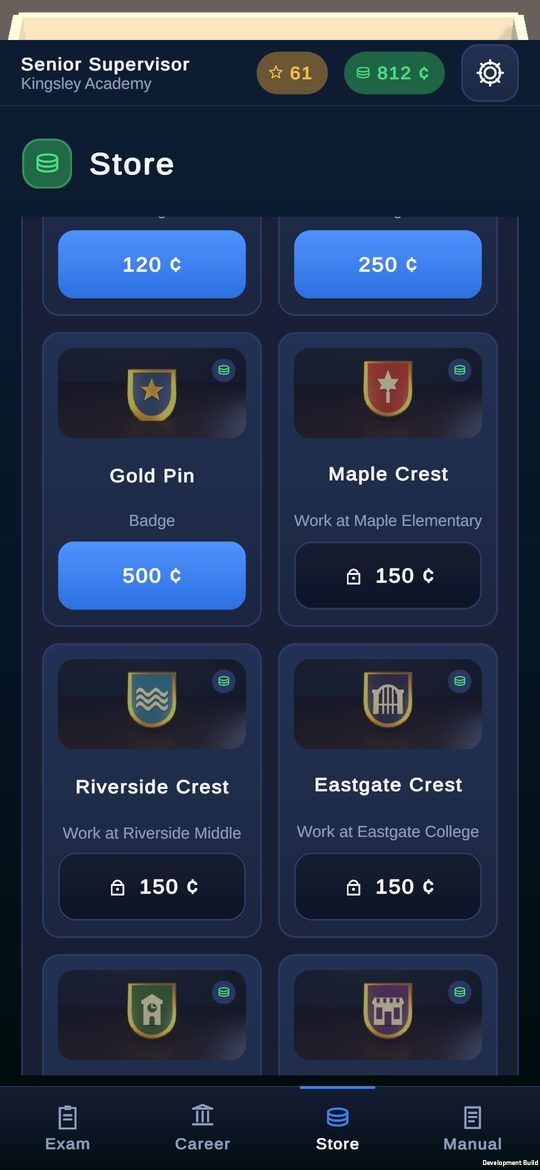
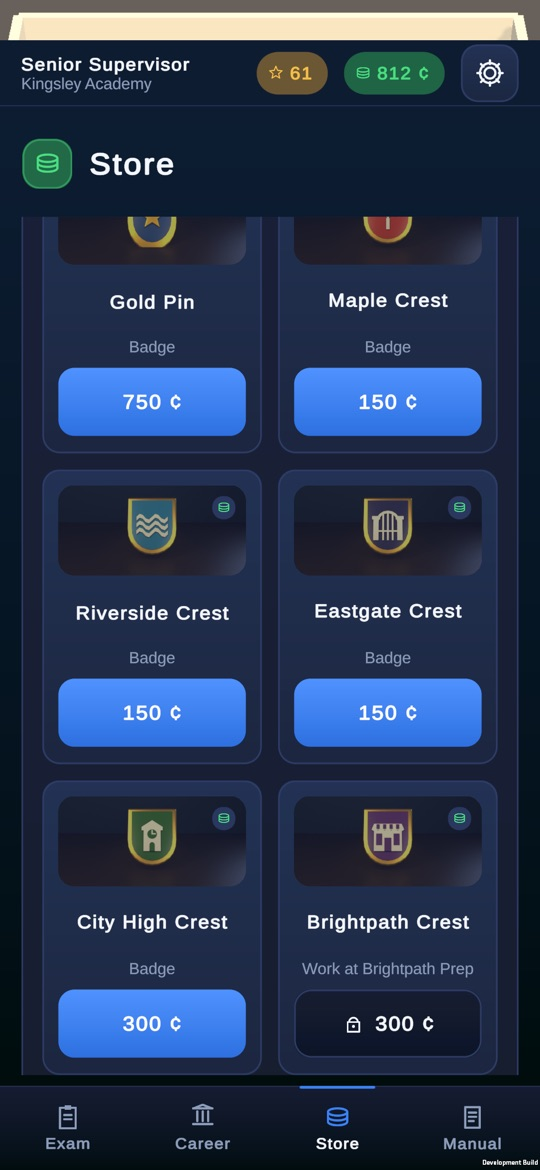
wardrobe: phone fixes (aae24f5): tap freezes gone, tab row, old careers' crests, approved prices

diff --git a/wardrobe/index.html b/wardrobe/index.html
@@ -234,6 +234,28 @@ ol.next { padding-left: 22px; }
         until the app closed. Without the depth test the skin and trousers drew over the shirt, and the picture
         stopped updating, so try-ons and turns never reached the screen. The texture is now single-sampled, and
         the camera stops the moment you leave the store.</p>
+      <p><b>Tap freezes, fixed in place.</b> On <code>9b848d2</code> every Wardrobe tap redrew the whole store, all ~37 tiles,
+        and a body or hair change also saved a long career at once (one serialization and two parses of a 286 k-character
+        file). Redressing the figure was never the cost: about 0.1 ms. Now a tap changes only what it touches: the figure is
+        redressed in place, a choice moves without rebuilding its row, a try-on only moves a tile's outline, a tab hides the
+        other tabs' tiles out of view without switching them off, and the rows and tiles draw on their own canvases. An
+        outfit, body or hair change is saved when you leave the store. Only buying redraws the page.</p>
+      <div class="table-wrap"><table><thead><tr><th>Tap</th><th>Phone, <code>9b848d2</code></th><th>Phone, <code>b3ebf5b</code> (first fix)</th><th>Phone, <code>aae24f5</code> (now)</th><th>Editor, now</th></tr></thead><tbody>
+        <tr><td>Man / Woman</td><td class="num">≈ 900 ms</td><td class="num">78–89 ms</td><td class="num">22–34 ms</td><td class="num">1.6 ms</td></tr>
+        <tr><td>Hair</td><td class="num">≈ 900 ms</td><td class="num">76–78 ms</td><td class="num">23–34 ms</td><td class="num">1.5 ms</td></tr>
+        <tr><td>Try-on</td><td class="num">≈ 500 ms</td><td class="num">110–121 ms</td><td class="num">55–78 ms</td><td class="num">8.5 ms</td></tr>
+        <tr><td>Tab</td><td class="num">≈ 350 ms</td><td class="num">100–233 ms</td><td class="num">67–78 ms</td><td class="num">8.7–8.8 ms</td></tr>
+      </tbody></table></div>
+      <p class="muted">Every tap is now under the ~100 ms goal; Man / Woman and Hair are as smooth as no tap at all.
+        Phone: the longest frame in the display log (<code>BufferQueueProducer</code> for the game's surface,
+        one line a second) in the 2.6 s after each of six taps; about 23–33 ms with no tap. Editor: main-thread time of the
+        busiest frame after the tap (<code>M131WardrobeTapCostProbe</code>), Apple M4; it was 72–98 ms before.</p>
+      <p><b>The chosen tab stays in view.</b> Picking Badges or Extras at the far end of the row keeps it highlighted and on
+        screen, after the tap and after a purchase redraws the store.</p>
+      <p><b>Old careers' crests.</b> The phone's career was saved before schools were recorded (save version 2, at Kingsley):
+        no room styles, and offers with no "from" school, so only Kingsley counted. Save version 6 adds the schools on the main
+        ladder below each known school. On the real save Maple, Riverside, Eastgate, City High and Kingsley are now for sale;
+        Brightpath, State University and the National Centre stay locked. The save was put back byte for byte afterwards.</p>
       <p><b>Checked on the phone:</b> try-on changes the figure for a top, a hat, shoes, glasses and a crest. Nine
         sideways drags each turned it, and the back view is clean. Leaving and coming back faces it front again,
         with the try-on and tab reset. All six hair styles and both bodies show. All seven tabs are there. Locked crests
@@ -258,8 +280,11 @@ ol.next { padding-left: 22px; }
 <figure><a href="img/wardrobe-phone-glasses-zoom.jpg"><img src="img/wardrobe-phone-glasses-zoom.jpg" alt="Phone: the figure wearing round glasses, enlarged" loading="lazy"></a><figcaption><b>Glasses, enlarged</b>Round Glasses tried on.</figcaption></figure>
 <figure><a href="img/wardrobe-phone-crest-zoom.jpg"><img src="img/wardrobe-phone-crest-zoom.jpg" alt="Phone: the Kingsley Crest on the chest, enlarged" loading="lazy"></a><figcaption><b>A crest, enlarged</b>The Kingsley Crest on the chest.</figcaption></figure>
 <figure><a href="img/wardrobe-phone-tabs.jpg"><img src="img/wardrobe-phone-tabs.jpg" alt="Phone: category tabs scrolled to Shoes, Badges, Extras" loading="lazy"></a><figcaption><b>All seven tabs</b>The row scrolls to Shoes, Badges and Extras.</figcaption></figure>
-<figure><a href="img/wardrobe-phone-locks.jpg"><img src="img/wardrobe-phone-locks.jpg" alt="Phone: locked crests with their reasons" loading="lazy"></a><figcaption><b>Locks</b>Crests of schools not yet worked at show "Work at …" and a lock on the price.</figcaption></figure>
-<figure><a href="img/wardrobe-phone-locks2.jpg"><img src="img/wardrobe-phone-locks2.jpg" alt="Phone: more crests, Kingsley unlocked" loading="lazy"></a><figcaption><b>Locks, continued</b>Kingsley, the current school, is for sale; the others are locked.</figcaption></figure>
+<figure><a href="img/wardrobe-phone-tab-kept.jpg"><img src="img/wardrobe-phone-tab-kept.jpg" alt="Phone: Badges tab chosen and still in view after the tap" loading="lazy"></a><figcaption><b>The tab stays in view</b>Badges, picked at the far end of the row, stays highlighted and on screen.</figcaption></figure>
+<figure><a href="img/wardrobe-phone-locks.jpg"><img src="img/wardrobe-phone-locks.jpg" alt="Phone: Maple, Riverside, Eastgate and City High crests for sale, Brightpath locked" loading="lazy"></a><figcaption><b>Crests, an old career at Kingsley</b>Maple, Riverside, Eastgate and City High are for sale; Brightpath (the money route) stays locked. The Gold Pin is 750¢.</figcaption></figure>
+<figure><a href="img/wardrobe-phone-locks2.jpg"><img src="img/wardrobe-phone-locks2.jpg" alt="Phone: Kingsley crest for sale, State University and National locked" loading="lazy"></a><figcaption><b>Crests, continued</b>Kingsley, the current school, is for sale; State University and the National Centre are locked.</figcaption></figure>
+<figure><a href="img/wardrobe-phone-band2-hats.jpg"><img src="img/wardrobe-phone-band2-hats.jpg" alt="Phone, new Maple career: Flat Cap locked with Reach Supervisor" loading="lazy"></a><figcaption><b>Band 2 lock</b>A new career at Maple: the Flat Cap (200¢) waits for Supervisor.</figcaption></figure>
+<figure><a href="img/wardrobe-phone-band2-tops.jpg"><img src="img/wardrobe-phone-band2-tops.jpg" alt="Phone, new Maple career: Sweater and Hoodie locked, Graduation Cap 750" loading="lazy"></a><figcaption><b>Band 2 and 3</b>Sweater 190¢ and Hoodie 210¢ wait for Supervisor; the Graduation Cap is 750¢ at Senior Supervisor.</figcaption></figure>
 <figure><a href="img/wardrobe-phone-tiles-owned.jpg"><img src="img/wardrobe-phone-tiles-owned.jpg" alt="Phone: owned cap tile next to dimmed unowned hats" loading="lazy"></a><figcaption><b>Owned and not owned</b>The bought Baseball Cap is bright with its check; the rest are dimmed with a coin mark.</figcaption></figure>
 <figure><a href="img/wardrobe-phone-outfit.jpg"><img src="img/wardrobe-phone-outfit.jpg" alt="Phone: preview wearing cap and blazer" loading="lazy"></a><figcaption><b>Bought and worn</b>Woman, Bun, Baseball Cap and Blazer. Under the cap the bun is a ponytail.</figcaption></figure>
 <figure><a href="img/wardrobe-phone-room.jpg"><img src="img/wardrobe-phone-room.jpg" alt="Phone: the exam room with the supervisor in cap and blazer" loading="lazy"></a><figcaption><b>In the exam</b>The supervisor (bottom right) wears the same outfit.</figcaption></figure>
@@ -298,8 +323,8 @@ ol.next { padding-left: 22px; }
     <div class="cards">
       <div class="card"><h3>36 items</h3><p>5 hats, 9 tops, 3 trousers, 4 shoes, 3 pins, 8 school crests and 4 extras.
         Prices are one value inside each band from the candidates page, all in one table for the phase 4 balance pass.</p></div>
-      <div class="card"><h3>Unlocks</h3><p>The Graduation Cap, the Blazer and the Gold Pin wait for Senior Supervisor (band 3), the
-        Silver Pin for Supervisor (band 2). A band once reached stays reached, even after a demotion. A school's crest goes on
+      <div class="card"><h3>Unlocks</h3><p>The Graduation Cap, the Blazer and the Gold Pin (750¢ each) wait for Senior Supervisor
+        (band 3); the Silver Pin and ten mid-priced items (190–260¢) for Supervisor (band 2). A band once reached stays reached, even after a demotion. A school's crest goes on
         sale once you have worked there. Locked tiles say why and can still be tried on.</p></div>
       <div class="card"><h3>Hair</h3><p>A free choice for each body, next to Man / Woman. The woman now starts with long hair; she
         can pick a bob or a new bun. The man keeps his short hair, or picks cropped or curly.</p></div>
@@ -349,28 +374,28 @@ ol.next { padding-left: 22px; }
 <div class="items">
 <article class="item" id="hat_cap"><figure><a href="img/wardrobe3-item-hat_cap.jpg"><img src="img/wardrobe3-item-hat_cap.jpg" alt="Baseball Cap on the man and the woman" loading="lazy"></a></figure><figure><a href="img/wardrobe3-tile-hat_cap.jpg"><img src="img/wardrobe3-tile-hat_cap.jpg" alt="Baseball Cap shop tile" loading="lazy"></a></figure><h3>Baseball Cap</h3><div class="meta"><span>Hat</span><span>140 ¢</span></div><p class="id"><code>hat_cap</code></p></article>
 <article class="item" id="hat_beanie"><figure><a href="img/wardrobe3-item-hat_beanie.jpg"><img src="img/wardrobe3-item-hat_beanie.jpg" alt="Beanie on the man and the woman" loading="lazy"></a></figure><figure><a href="img/wardrobe3-tile-hat_beanie.jpg"><img src="img/wardrobe3-tile-hat_beanie.jpg" alt="Beanie shop tile" loading="lazy"></a></figure><h3>Beanie</h3><div class="meta"><span>Hat</span><span>120 ¢</span></div><p class="id"><code>hat_beanie</code></p></article>
-<article class="item" id="hat_flatcap"><figure><a href="img/wardrobe3-item-hat_flatcap.jpg"><img src="img/wardrobe3-item-hat_flatcap.jpg" alt="Flat Cap on the man and the woman" loading="lazy"></a></figure><figure><a href="img/wardrobe3-tile-hat_flatcap.jpg"><img src="img/wardrobe3-tile-hat_flatcap.jpg" alt="Flat Cap shop tile" loading="lazy"></a></figure><h3>Flat Cap</h3><div class="meta"><span>Hat</span><span>200 ¢</span></div><p class="id"><code>hat_flatcap</code></p></article>
+<article class="item" id="hat_flatcap"><figure><a href="img/wardrobe3-item-hat_flatcap.jpg"><img src="img/wardrobe3-item-hat_flatcap.jpg" alt="Flat Cap on the man and the woman" loading="lazy"></a></figure><figure><a href="img/wardrobe3-tile-hat_flatcap.jpg"><img src="img/wardrobe3-tile-hat_flatcap.jpg" alt="Flat Cap shop tile" loading="lazy"></a></figure><h3>Flat Cap</h3><div class="meta"><span>Hat</span><span>200 ¢</span><span>Reach Supervisor (band 2)</span></div><p class="id"><code>hat_flatcap</code></p></article>
 <article class="item" id="hat_bucket"><figure><a href="img/wardrobe3-item-hat_bucket.jpg"><img src="img/wardrobe3-item-hat_bucket.jpg" alt="Bucket Hat on the man and the woman" loading="lazy"></a></figure><figure><a href="img/wardrobe3-tile-hat_bucket.jpg"><img src="img/wardrobe3-tile-hat_bucket.jpg" alt="Bucket Hat shop tile" loading="lazy"></a></figure><h3>Bucket Hat</h3><div class="meta"><span>Hat</span><span>160 ¢</span></div><p class="id"><code>hat_bucket</code></p></article>
-<article class="item" id="hat_grad"><figure><a href="img/wardrobe3-item-hat_grad.jpg"><img src="img/wardrobe3-item-hat_grad.jpg" alt="Graduation Cap on the man and the woman" loading="lazy"></a></figure><figure><a href="img/wardrobe3-tile-hat_grad.jpg"><img src="img/wardrobe3-tile-hat_grad.jpg" alt="Graduation Cap shop tile" loading="lazy"></a></figure><h3>Graduation Cap</h3><div class="meta"><span>Hat</span><span>500 ¢</span><span>Reach Senior Supervisor (band 3)</span></div><p class="id"><code>hat_grad</code></p></article>
+<article class="item" id="hat_grad"><figure><a href="img/wardrobe3-item-hat_grad.jpg"><img src="img/wardrobe3-item-hat_grad.jpg" alt="Graduation Cap on the man and the woman" loading="lazy"></a></figure><figure><a href="img/wardrobe3-tile-hat_grad.jpg"><img src="img/wardrobe3-tile-hat_grad.jpg" alt="Graduation Cap shop tile" loading="lazy"></a></figure><h3>Graduation Cap</h3><div class="meta"><span>Hat</span><span>750 ¢</span><span>Reach Senior Supervisor (band 3)</span></div><p class="id"><code>hat_grad</code></p></article>
 <article class="item" id="top_tee_white"><figure><a href="img/wardrobe3-item-top_tee_white.jpg"><img src="img/wardrobe3-item-top_tee_white.jpg" alt="White T-Shirt on the man and the woman" loading="lazy"></a></figure><figure><a href="img/wardrobe3-tile-top_tee_white.jpg"><img src="img/wardrobe3-tile-top_tee_white.jpg" alt="White T-Shirt shop tile" loading="lazy"></a></figure><h3>White T-Shirt</h3><div class="meta"><span>Top</span><span>90 ¢</span></div><p class="id"><code>top_tee_white</code></p></article>
 <article class="item" id="top_tee_mustard"><figure><a href="img/wardrobe3-item-top_tee_mustard.jpg"><img src="img/wardrobe3-item-top_tee_mustard.jpg" alt="Mustard T-Shirt on the man and the woman" loading="lazy"></a></figure><figure><a href="img/wardrobe3-tile-top_tee_mustard.jpg"><img src="img/wardrobe3-tile-top_tee_mustard.jpg" alt="Mustard T-Shirt shop tile" loading="lazy"></a></figure><h3>Mustard T-Shirt</h3><div class="meta"><span>Top</span><span>90 ¢</span></div><p class="id"><code>top_tee_mustard</code></p></article>
 <article class="item" id="top_tee_brick"><figure><a href="img/wardrobe3-item-top_tee_brick.jpg"><img src="img/wardrobe3-item-top_tee_brick.jpg" alt="Brick T-Shirt on the man and the woman" loading="lazy"></a></figure><figure><a href="img/wardrobe3-tile-top_tee_brick.jpg"><img src="img/wardrobe3-tile-top_tee_brick.jpg" alt="Brick T-Shirt shop tile" loading="lazy"></a></figure><h3>Brick T-Shirt</h3><div class="meta"><span>Top</span><span>90 ¢</span></div><p class="id"><code>top_tee_brick</code></p></article>
 <article class="item" id="top_polo"><figure><a href="img/wardrobe3-item-top_polo.jpg"><img src="img/wardrobe3-item-top_polo.jpg" alt="Polo Shirt on the man and the woman" loading="lazy"></a></figure><figure><a href="img/wardrobe3-tile-top_polo.jpg"><img src="img/wardrobe3-tile-top_polo.jpg" alt="Polo Shirt shop tile" loading="lazy"></a></figure><h3>Polo Shirt</h3><div class="meta"><span>Top</span><span>160 ¢</span></div><p class="id"><code>top_polo</code></p></article>
-<article class="item" id="top_sweater"><figure><a href="img/wardrobe3-item-top_sweater.jpg"><img src="img/wardrobe3-item-top_sweater.jpg" alt="Sweater on the man and the woman" loading="lazy"></a></figure><figure><a href="img/wardrobe3-tile-top_sweater.jpg"><img src="img/wardrobe3-tile-top_sweater.jpg" alt="Sweater shop tile" loading="lazy"></a></figure><h3>Sweater</h3><div class="meta"><span>Top</span><span>190 ¢</span></div><p class="id"><code>top_sweater</code></p></article>
-<article class="item" id="top_hoodie"><figure><a href="img/wardrobe3-item-top_hoodie.jpg"><img src="img/wardrobe3-item-top_hoodie.jpg" alt="Hoodie on the man and the woman" loading="lazy"></a></figure><figure><a href="img/wardrobe3-tile-top_hoodie.jpg"><img src="img/wardrobe3-tile-top_hoodie.jpg" alt="Hoodie shop tile" loading="lazy"></a></figure><h3>Hoodie</h3><div class="meta"><span>Top</span><span>210 ¢</span></div><p class="id"><code>top_hoodie</code></p></article>
-<article class="item" id="top_shirt_tie"><figure><a href="img/wardrobe3-item-top_shirt_tie.jpg"><img src="img/wardrobe3-item-top_shirt_tie.jpg" alt="Shirt &amp; Tie on the man and the woman" loading="lazy"></a></figure><figure><a href="img/wardrobe3-tile-top_shirt_tie.jpg"><img src="img/wardrobe3-tile-top_shirt_tie.jpg" alt="Shirt &amp; Tie shop tile" loading="lazy"></a></figure><h3>Shirt &amp; Tie</h3><div class="meta"><span>Top</span><span>250 ¢</span></div><p class="id"><code>top_shirt_tie</code></p></article>
-<article class="item" id="top_cardigan"><figure><a href="img/wardrobe3-item-top_cardigan.jpg"><img src="img/wardrobe3-item-top_cardigan.jpg" alt="Cardigan on the man and the woman" loading="lazy"></a></figure><figure><a href="img/wardrobe3-tile-top_cardigan.jpg"><img src="img/wardrobe3-tile-top_cardigan.jpg" alt="Cardigan shop tile" loading="lazy"></a></figure><h3>Cardigan</h3><div class="meta"><span>Top</span><span>260 ¢</span></div><p class="id"><code>top_cardigan</code></p></article>
-<article class="item" id="top_blazer"><figure><a href="img/wardrobe3-item-top_blazer.jpg"><img src="img/wardrobe3-item-top_blazer.jpg" alt="Blazer on the man and the woman" loading="lazy"></a></figure><figure><a href="img/wardrobe3-tile-top_blazer.jpg"><img src="img/wardrobe3-tile-top_blazer.jpg" alt="Blazer shop tile" loading="lazy"></a></figure><h3>Blazer</h3><div class="meta"><span>Top</span><span>500 ¢</span><span>Reach Senior Supervisor (band 3)</span></div><p class="id"><code>top_blazer</code></p></article>
+<article class="item" id="top_sweater"><figure><a href="img/wardrobe3-item-top_sweater.jpg"><img src="img/wardrobe3-item-top_sweater.jpg" alt="Sweater on the man and the woman" loading="lazy"></a></figure><figure><a href="img/wardrobe3-tile-top_sweater.jpg"><img src="img/wardrobe3-tile-top_sweater.jpg" alt="Sweater shop tile" loading="lazy"></a></figure><h3>Sweater</h3><div class="meta"><span>Top</span><span>190 ¢</span><span>Reach Supervisor (band 2)</span></div><p class="id"><code>top_sweater</code></p></article>
+<article class="item" id="top_hoodie"><figure><a href="img/wardrobe3-item-top_hoodie.jpg"><img src="img/wardrobe3-item-top_hoodie.jpg" alt="Hoodie on the man and the woman" loading="lazy"></a></figure><figure><a href="img/wardrobe3-tile-top_hoodie.jpg"><img src="img/wardrobe3-tile-top_hoodie.jpg" alt="Hoodie shop tile" loading="lazy"></a></figure><h3>Hoodie</h3><div class="meta"><span>Top</span><span>210 ¢</span><span>Reach Supervisor (band 2)</span></div><p class="id"><code>top_hoodie</code></p></article>
+<article class="item" id="top_shirt_tie"><figure><a href="img/wardrobe3-item-top_shirt_tie.jpg"><img src="img/wardrobe3-item-top_shirt_tie.jpg" alt="Shirt &amp; Tie on the man and the woman" loading="lazy"></a></figure><figure><a href="img/wardrobe3-tile-top_shirt_tie.jpg"><img src="img/wardrobe3-tile-top_shirt_tie.jpg" alt="Shirt &amp; Tie shop tile" loading="lazy"></a></figure><h3>Shirt &amp; Tie</h3><div class="meta"><span>Top</span><span>250 ¢</span><span>Reach Supervisor (band 2)</span></div><p class="id"><code>top_shirt_tie</code></p></article>
+<article class="item" id="top_cardigan"><figure><a href="img/wardrobe3-item-top_cardigan.jpg"><img src="img/wardrobe3-item-top_cardigan.jpg" alt="Cardigan on the man and the woman" loading="lazy"></a></figure><figure><a href="img/wardrobe3-tile-top_cardigan.jpg"><img src="img/wardrobe3-tile-top_cardigan.jpg" alt="Cardigan shop tile" loading="lazy"></a></figure><h3>Cardigan</h3><div class="meta"><span>Top</span><span>260 ¢</span><span>Reach Supervisor (band 2)</span></div><p class="id"><code>top_cardigan</code></p></article>
+<article class="item" id="top_blazer"><figure><a href="img/wardrobe3-item-top_blazer.jpg"><img src="img/wardrobe3-item-top_blazer.jpg" alt="Blazer on the man and the woman" loading="lazy"></a></figure><figure><a href="img/wardrobe3-tile-top_blazer.jpg"><img src="img/wardrobe3-tile-top_blazer.jpg" alt="Blazer shop tile" loading="lazy"></a></figure><h3>Blazer</h3><div class="meta"><span>Top</span><span>750 ¢</span><span>Reach Senior Supervisor (band 3)</span></div><p class="id"><code>top_blazer</code></p></article>
 <article class="item" id="trousers_jeans"><figure><a href="img/wardrobe3-item-trousers_jeans.jpg"><img src="img/wardrobe3-item-trousers_jeans.jpg" alt="Jeans on the man and the woman" loading="lazy"></a></figure><figure><a href="img/wardrobe3-tile-trousers_jeans.jpg"><img src="img/wardrobe3-tile-trousers_jeans.jpg" alt="Jeans shop tile" loading="lazy"></a></figure><h3>Jeans</h3><div class="meta"><span>Trousers</span><span>120 ¢</span></div><p class="id"><code>trousers_jeans</code></p></article>
 <article class="item" id="trousers_chinos"><figure><a href="img/wardrobe3-item-trousers_chinos.jpg"><img src="img/wardrobe3-item-trousers_chinos.jpg" alt="Chinos on the man and the woman" loading="lazy"></a></figure><figure><a href="img/wardrobe3-tile-trousers_chinos.jpg"><img src="img/wardrobe3-tile-trousers_chinos.jpg" alt="Chinos shop tile" loading="lazy"></a></figure><h3>Chinos</h3><div class="meta"><span>Trousers</span><span>140 ¢</span></div><p class="id"><code>trousers_chinos</code></p></article>
-<article class="item" id="trousers_formal"><figure><a href="img/wardrobe3-item-trousers_formal.jpg"><img src="img/wardrobe3-item-trousers_formal.jpg" alt="Formal Trousers on the man and the woman" loading="lazy"></a></figure><figure><a href="img/wardrobe3-tile-trousers_formal.jpg"><img src="img/wardrobe3-tile-trousers_formal.jpg" alt="Formal Trousers shop tile" loading="lazy"></a></figure><h3>Formal Trousers</h3><div class="meta"><span>Trousers</span><span>210 ¢</span></div><p class="id"><code>trousers_formal</code></p></article>
+<article class="item" id="trousers_formal"><figure><a href="img/wardrobe3-item-trousers_formal.jpg"><img src="img/wardrobe3-item-trousers_formal.jpg" alt="Formal Trousers on the man and the woman" loading="lazy"></a></figure><figure><a href="img/wardrobe3-tile-trousers_formal.jpg"><img src="img/wardrobe3-tile-trousers_formal.jpg" alt="Formal Trousers shop tile" loading="lazy"></a></figure><h3>Formal Trousers</h3><div class="meta"><span>Trousers</span><span>210 ¢</span><span>Reach Supervisor (band 2)</span></div><p class="id"><code>trousers_formal</code></p></article>
 <article class="item" id="shoes_sneakers"><figure><a href="img/wardrobe3-item-shoes_sneakers.jpg"><img src="img/wardrobe3-item-shoes_sneakers.jpg" alt="White Sneakers on the man and the woman" loading="lazy"></a></figure><figure><a href="img/wardrobe3-tile-shoes_sneakers.jpg"><img src="img/wardrobe3-tile-shoes_sneakers.jpg" alt="White Sneakers shop tile" loading="lazy"></a></figure><h3>White Sneakers</h3><div class="meta"><span>Shoes</span><span>140 ¢</span></div><p class="id"><code>shoes_sneakers</code></p></article>
-<article class="item" id="shoes_runners"><figure><a href="img/wardrobe3-item-shoes_runners.jpg"><img src="img/wardrobe3-item-shoes_runners.jpg" alt="Running Shoes on the man and the woman" loading="lazy"></a></figure><figure><a href="img/wardrobe3-tile-shoes_runners.jpg"><img src="img/wardrobe3-tile-shoes_runners.jpg" alt="Running Shoes shop tile" loading="lazy"></a></figure><h3>Running Shoes</h3><div class="meta"><span>Shoes</span><span>190 ¢</span></div><p class="id"><code>shoes_runners</code></p></article>
-<article class="item" id="shoes_loafers"><figure><a href="img/wardrobe3-item-shoes_loafers.jpg"><img src="img/wardrobe3-item-shoes_loafers.jpg" alt="Loafers on the man and the woman" loading="lazy"></a></figure><figure><a href="img/wardrobe3-tile-shoes_loafers.jpg"><img src="img/wardrobe3-tile-shoes_loafers.jpg" alt="Loafers shop tile" loading="lazy"></a></figure><h3>Loafers</h3><div class="meta"><span>Shoes</span><span>210 ¢</span></div><p class="id"><code>shoes_loafers</code></p></article>
-<article class="item" id="shoes_boots"><figure><a href="img/wardrobe3-item-shoes_boots.jpg"><img src="img/wardrobe3-item-shoes_boots.jpg" alt="Boots on the man and the woman" loading="lazy"></a></figure><figure><a href="img/wardrobe3-tile-shoes_boots.jpg"><img src="img/wardrobe3-tile-shoes_boots.jpg" alt="Boots shop tile" loading="lazy"></a></figure><h3>Boots</h3><div class="meta"><span>Shoes</span><span>260 ¢</span></div><p class="id"><code>shoes_boots</code></p></article>
+<article class="item" id="shoes_runners"><figure><a href="img/wardrobe3-item-shoes_runners.jpg"><img src="img/wardrobe3-item-shoes_runners.jpg" alt="Running Shoes on the man and the woman" loading="lazy"></a></figure><figure><a href="img/wardrobe3-tile-shoes_runners.jpg"><img src="img/wardrobe3-tile-shoes_runners.jpg" alt="Running Shoes shop tile" loading="lazy"></a></figure><h3>Running Shoes</h3><div class="meta"><span>Shoes</span><span>190 ¢</span><span>Reach Supervisor (band 2)</span></div><p class="id"><code>shoes_runners</code></p></article>
+<article class="item" id="shoes_loafers"><figure><a href="img/wardrobe3-item-shoes_loafers.jpg"><img src="img/wardrobe3-item-shoes_loafers.jpg" alt="Loafers on the man and the woman" loading="lazy"></a></figure><figure><a href="img/wardrobe3-tile-shoes_loafers.jpg"><img src="img/wardrobe3-tile-shoes_loafers.jpg" alt="Loafers shop tile" loading="lazy"></a></figure><h3>Loafers</h3><div class="meta"><span>Shoes</span><span>210 ¢</span><span>Reach Supervisor (band 2)</span></div><p class="id"><code>shoes_loafers</code></p></article>
+<article class="item" id="shoes_boots"><figure><a href="img/wardrobe3-item-shoes_boots.jpg"><img src="img/wardrobe3-item-shoes_boots.jpg" alt="Boots on the man and the woman" loading="lazy"></a></figure><figure><a href="img/wardrobe3-tile-shoes_boots.jpg"><img src="img/wardrobe3-tile-shoes_boots.jpg" alt="Boots shop tile" loading="lazy"></a></figure><h3>Boots</h3><div class="meta"><span>Shoes</span><span>260 ¢</span><span>Reach Supervisor (band 2)</span></div><p class="id"><code>shoes_boots</code></p></article>
 <article class="item" id="badge_bronze"><figure><a href="img/wardrobe3-item-badge_bronze.jpg"><img src="img/wardrobe3-item-badge_bronze.jpg" alt="Bronze Pin on the man and the woman" loading="lazy"></a></figure><figure><a href="img/wardrobe3-tile-badge_bronze.jpg"><img src="img/wardrobe3-tile-badge_bronze.jpg" alt="Bronze Pin shop tile" loading="lazy"></a></figure><h3>Bronze Pin</h3><div class="meta"><span>Badge</span><span>120 ¢</span></div><p class="id"><code>badge_bronze</code></p></article>
 <article class="item" id="badge_silver"><figure><a href="img/wardrobe3-item-badge_silver.jpg"><img src="img/wardrobe3-item-badge_silver.jpg" alt="Silver Pin on the man and the woman" loading="lazy"></a></figure><figure><a href="img/wardrobe3-tile-badge_silver.jpg"><img src="img/wardrobe3-tile-badge_silver.jpg" alt="Silver Pin shop tile" loading="lazy"></a></figure><h3>Silver Pin</h3><div class="meta"><span>Badge</span><span>250 ¢</span><span>Reach Supervisor (band 2)</span></div><p class="id"><code>badge_silver</code></p></article>
-<article class="item" id="badge_gold"><figure><a href="img/wardrobe3-item-badge_gold.jpg"><img src="img/wardrobe3-item-badge_gold.jpg" alt="Gold Pin on the man and the woman" loading="lazy"></a></figure><figure><a href="img/wardrobe3-tile-badge_gold.jpg"><img src="img/wardrobe3-tile-badge_gold.jpg" alt="Gold Pin shop tile" loading="lazy"></a></figure><h3>Gold Pin</h3><div class="meta"><span>Badge</span><span>500 ¢</span><span>Reach Senior Supervisor (band 3)</span></div><p class="id"><code>badge_gold</code></p></article>
+<article class="item" id="badge_gold"><figure><a href="img/wardrobe3-item-badge_gold.jpg"><img src="img/wardrobe3-item-badge_gold.jpg" alt="Gold Pin on the man and the woman" loading="lazy"></a></figure><figure><a href="img/wardrobe3-tile-badge_gold.jpg"><img src="img/wardrobe3-tile-badge_gold.jpg" alt="Gold Pin shop tile" loading="lazy"></a></figure><h3>Gold Pin</h3><div class="meta"><span>Badge</span><span>750 ¢</span><span>Reach Senior Supervisor (band 3)</span></div><p class="id"><code>badge_gold</code></p></article>
 <article class="item" id="crest_maple"><figure><a href="img/wardrobe3-item-crest_maple.jpg"><img src="img/wardrobe3-item-crest_maple.jpg" alt="Maple Crest on the man and the woman" loading="lazy"></a></figure><figure><a href="img/wardrobe3-tile-crest_maple.jpg"><img src="img/wardrobe3-tile-crest_maple.jpg" alt="Maple Crest shop tile" loading="lazy"></a></figure><h3>Maple Crest</h3><div class="meta"><span>Badge</span><span>150 ¢</span><span>Work at Maple</span></div><p class="id"><code>crest_maple</code></p></article>
 <article class="item" id="crest_riverside"><figure><a href="img/wardrobe3-item-crest_riverside.jpg"><img src="img/wardrobe3-item-crest_riverside.jpg" alt="Riverside Crest on the man and the woman" loading="lazy"></a></figure><figure><a href="img/wardrobe3-tile-crest_riverside.jpg"><img src="img/wardrobe3-tile-crest_riverside.jpg" alt="Riverside Crest shop tile" loading="lazy"></a></figure><h3>Riverside Crest</h3><div class="meta"><span>Badge</span><span>150 ¢</span><span>Work at Riverside</span></div><p class="id"><code>crest_riverside</code></p></article>
 <article class="item" id="crest_vocational"><figure><a href="img/wardrobe3-item-crest_vocational.jpg"><img src="img/wardrobe3-item-crest_vocational.jpg" alt="Eastgate Crest on the man and the woman" loading="lazy"></a></figure><figure><a href="img/wardrobe3-tile-crest_vocational.jpg"><img src="img/wardrobe3-tile-crest_vocational.jpg" alt="Eastgate Crest shop tile" loading="lazy"></a></figure><h3>Eastgate Crest</h3><div class="meta"><span>Badge</span><span>150 ¢</span><span>Work at Eastgate</span></div><p class="id"><code>crest_vocational</code></p></article>
@@ -382,7 +407,7 @@ ol.next { padding-left: 22px; }
 <article class="item" id="glasses_round"><figure><a href="img/wardrobe3-item-glasses_round.jpg"><img src="img/wardrobe3-item-glasses_round.jpg" alt="Round Glasses on the man and the woman" loading="lazy"></a></figure><figure><a href="img/wardrobe3-tile-glasses_round.jpg"><img src="img/wardrobe3-tile-glasses_round.jpg" alt="Round Glasses shop tile" loading="lazy"></a></figure><h3>Round Glasses</h3><div class="meta"><span>Extras</span><span>140 ¢</span></div><p class="id"><code>glasses_round</code></p></article>
 <article class="item" id="glasses_square"><figure><a href="img/wardrobe3-item-glasses_square.jpg"><img src="img/wardrobe3-item-glasses_square.jpg" alt="Square Glasses on the man and the woman" loading="lazy"></a></figure><figure><a href="img/wardrobe3-tile-glasses_square.jpg"><img src="img/wardrobe3-tile-glasses_square.jpg" alt="Square Glasses shop tile" loading="lazy"></a></figure><h3>Square Glasses</h3><div class="meta"><span>Extras</span><span>140 ¢</span></div><p class="id"><code>glasses_square</code></p></article>
 <article class="item" id="neck_lanyard"><figure><a href="img/wardrobe3-item-neck_lanyard.jpg"><img src="img/wardrobe3-item-neck_lanyard.jpg" alt="ID Lanyard on the man and the woman" loading="lazy"></a></figure><figure><a href="img/wardrobe3-tile-neck_lanyard.jpg"><img src="img/wardrobe3-tile-neck_lanyard.jpg" alt="ID Lanyard shop tile" loading="lazy"></a></figure><h3>ID Lanyard</h3><div class="meta"><span>Extras</span><span>90 ¢</span></div><p class="id"><code>neck_lanyard</code></p></article>
-<article class="item" id="wrist_watch"><figure><a href="img/wardrobe3-item-wrist_watch.jpg"><img src="img/wardrobe3-item-wrist_watch.jpg" alt="Wristwatch on the man and the woman" loading="lazy"></a></figure><figure><a href="img/wardrobe3-tile-wrist_watch.jpg"><img src="img/wardrobe3-tile-wrist_watch.jpg" alt="Wristwatch shop tile" loading="lazy"></a></figure><h3>Wristwatch</h3><div class="meta"><span>Extras</span><span>230 ¢</span></div><p class="id"><code>wrist_watch</code></p></article>
+<article class="item" id="wrist_watch"><figure><a href="img/wardrobe3-item-wrist_watch.jpg"><img src="img/wardrobe3-item-wrist_watch.jpg" alt="Wristwatch on the man and the woman" loading="lazy"></a></figure><figure><a href="img/wardrobe3-tile-wrist_watch.jpg"><img src="img/wardrobe3-tile-wrist_watch.jpg" alt="Wristwatch shop tile" loading="lazy"></a></figure><h3>Wristwatch</h3><div class="meta"><span>Extras</span><span>230 ¢</span><span>Reach Supervisor (band 2)</span></div><p class="id"><code>wrist_watch</code></p></article>
 </div>
     <h3 id="seam">The seams on the woman's tops: fixed</h3>
     <div class="items seam">
@@ -400,28 +425,28 @@ ol.next { padding-left: 22px; }
     <div class="table-wrap"><table><thead><tr><th>Item</th><th>Slot</th><th>Price</th><th>Unlock</th><th>Id</th></tr></thead><tbody>
 <tr><td><a href="#hat_cap">Baseball Cap</a></td><td>Hat</td><td class="num">140 ¢</td><td>—</td><td><code>hat_cap</code></td></tr>
 <tr><td><a href="#hat_beanie">Beanie</a></td><td>Hat</td><td class="num">120 ¢</td><td>—</td><td><code>hat_beanie</code></td></tr>
-<tr><td><a href="#hat_flatcap">Flat Cap</a></td><td>Hat</td><td class="num">200 ¢</td><td>—</td><td><code>hat_flatcap</code></td></tr>
+<tr><td><a href="#hat_flatcap">Flat Cap</a></td><td>Hat</td><td class="num">200 ¢</td><td>Reach Supervisor (band 2)</td><td><code>hat_flatcap</code></td></tr>
 <tr><td><a href="#hat_bucket">Bucket Hat</a></td><td>Hat</td><td class="num">160 ¢</td><td>—</td><td><code>hat_bucket</code></td></tr>
-<tr><td><a href="#hat_grad">Graduation Cap</a></td><td>Hat</td><td class="num">500 ¢</td><td>Reach Senior Supervisor (band 3)</td><td><code>hat_grad</code></td></tr>
+<tr><td><a href="#hat_grad">Graduation Cap</a></td><td>Hat</td><td class="num">750 ¢</td><td>Reach Senior Supervisor (band 3)</td><td><code>hat_grad</code></td></tr>
 <tr><td><a href="#top_tee_white">White T-Shirt</a></td><td>Top</td><td class="num">90 ¢</td><td>—</td><td><code>top_tee_white</code></td></tr>
 <tr><td><a href="#top_tee_mustard">Mustard T-Shirt</a></td><td>Top</td><td class="num">90 ¢</td><td>—</td><td><code>top_tee_mustard</code></td></tr>
 <tr><td><a href="#top_tee_brick">Brick T-Shirt</a></td><td>Top</td><td class="num">90 ¢</td><td>—</td><td><code>top_tee_brick</code></td></tr>
 <tr><td><a href="#top_polo">Polo Shirt</a></td><td>Top</td><td class="num">160 ¢</td><td>—</td><td><code>top_polo</code></td></tr>
-<tr><td><a href="#top_sweater">Sweater</a></td><td>Top</td><td class="num">190 ¢</td><td>—</td><td><code>top_sweater</code></td></tr>
-<tr><td><a href="#top_hoodie">Hoodie</a></td><td>Top</td><td class="num">210 ¢</td><td>—</td><td><code>top_hoodie</code></td></tr>
-<tr><td><a href="#top_shirt_tie">Shirt &amp; Tie</a></td><td>Top</td><td class="num">250 ¢</td><td>—</td><td><code>top_shirt_tie</code></td></tr>
-<tr><td><a href="#top_cardigan">Cardigan</a></td><td>Top</td><td class="num">260 ¢</td><td>—</td><td><code>top_cardigan</code></td></tr>
-<tr><td><a href="#top_blazer">Blazer</a></td><td>Top</td><td class="num">500 ¢</td><td>Reach Senior Supervisor (band 3)</td><td><code>top_blazer</code></td></tr>
+<tr><td><a href="#top_sweater">Sweater</a></td><td>Top</td><td class="num">190 ¢</td><td>Reach Supervisor (band 2)</td><td><code>top_sweater</code></td></tr>
+<tr><td><a href="#top_hoodie">Hoodie</a></td><td>Top</td><td class="num">210 ¢</td><td>Reach Supervisor (band 2)</td><td><code>top_hoodie</code></td></tr>
+<tr><td><a href="#top_shirt_tie">Shirt &amp; Tie</a></td><td>Top</td><td class="num">250 ¢</td><td>Reach Supervisor (band 2)</td><td><code>top_shirt_tie</code></td></tr>
+<tr><td><a href="#top_cardigan">Cardigan</a></td><td>Top</td><td class="num">260 ¢</td><td>Reach Supervisor (band 2)</td><td><code>top_cardigan</code></td></tr>
+<tr><td><a href="#top_blazer">Blazer</a></td><td>Top</td><td class="num">750 ¢</td><td>Reach Senior Supervisor (band 3)</td><td><code>top_blazer</code></td></tr>
 <tr><td><a href="#trousers_jeans">Jeans</a></td><td>Trousers</td><td class="num">120 ¢</td><td>—</td><td><code>trousers_jeans</code></td></tr>
 <tr><td><a href="#trousers_chinos">Chinos</a></td><td>Trousers</td><td class="num">140 ¢</td><td>—</td><td><code>trousers_chinos</code></td></tr>
-<tr><td><a href="#trousers_formal">Formal Trousers</a></td><td>Trousers</td><td class="num">210 ¢</td><td>—</td><td><code>trousers_formal</code></td></tr>
+<tr><td><a href="#trousers_formal">Formal Trousers</a></td><td>Trousers</td><td class="num">210 ¢</td><td>Reach Supervisor (band 2)</td><td><code>trousers_formal</code></td></tr>
 <tr><td><a href="#shoes_sneakers">White Sneakers</a></td><td>Shoes</td><td class="num">140 ¢</td><td>—</td><td><code>shoes_sneakers</code></td></tr>
-<tr><td><a href="#shoes_runners">Running Shoes</a></td><td>Shoes</td><td class="num">190 ¢</td><td>—</td><td><code>shoes_runners</code></td></tr>
-<tr><td><a href="#shoes_loafers">Loafers</a></td><td>Shoes</td><td class="num">210 ¢</td><td>—</td><td><code>shoes_loafers</code></td></tr>
-<tr><td><a href="#shoes_boots">Boots</a></td><td>Shoes</td><td class="num">260 ¢</td><td>—</td><td><code>shoes_boots</code></td></tr>
+<tr><td><a href="#shoes_runners">Running Shoes</a></td><td>Shoes</td><td class="num">190 ¢</td><td>Reach Supervisor (band 2)</td><td><code>shoes_runners</code></td></tr>
+<tr><td><a href="#shoes_loafers">Loafers</a></td><td>Shoes</td><td class="num">210 ¢</td><td>Reach Supervisor (band 2)</td><td><code>shoes_loafers</code></td></tr>
+<tr><td><a href="#shoes_boots">Boots</a></td><td>Shoes</td><td class="num">260 ¢</td><td>Reach Supervisor (band 2)</td><td><code>shoes_boots</code></td></tr>
 <tr><td><a href="#badge_bronze">Bronze Pin</a></td><td>Badge</td><td class="num">120 ¢</td><td>—</td><td><code>badge_bronze</code></td></tr>
 <tr><td><a href="#badge_silver">Silver Pin</a></td><td>Badge</td><td class="num">250 ¢</td><td>Reach Supervisor (band 2)</td><td><code>badge_silver</code></td></tr>
-<tr><td><a href="#badge_gold">Gold Pin</a></td><td>Badge</td><td class="num">500 ¢</td><td>Reach Senior Supervisor (band 3)</td><td><code>badge_gold</code></td></tr>
+<tr><td><a href="#badge_gold">Gold Pin</a></td><td>Badge</td><td class="num">750 ¢</td><td>Reach Senior Supervisor (band 3)</td><td><code>badge_gold</code></td></tr>
 <tr><td><a href="#crest_maple">Maple Crest</a></td><td>Badge</td><td class="num">150 ¢</td><td>Work at Maple</td><td><code>crest_maple</code></td></tr>
 <tr><td><a href="#crest_riverside">Riverside Crest</a></td><td>Badge</td><td class="num">150 ¢</td><td>Work at Riverside</td><td><code>crest_riverside</code></td></tr>
 <tr><td><a href="#crest_vocational">Eastgate Crest</a></td><td>Badge</td><td class="num">150 ¢</td><td>Work at Eastgate</td><td><code>crest_vocational</code></td></tr>
@@ -433,7 +458,7 @@ ol.next { padding-left: 22px; }
 <tr><td><a href="#glasses_round">Round Glasses</a></td><td>Extras</td><td class="num">140 ¢</td><td>—</td><td><code>glasses_round</code></td></tr>
 <tr><td><a href="#glasses_square">Square Glasses</a></td><td>Extras</td><td class="num">140 ¢</td><td>—</td><td><code>glasses_square</code></td></tr>
 <tr><td><a href="#neck_lanyard">ID Lanyard</a></td><td>Extras</td><td class="num">90 ¢</td><td>—</td><td><code>neck_lanyard</code></td></tr>
-<tr><td><a href="#wrist_watch">Wristwatch</a></td><td>Extras</td><td class="num">230 ¢</td><td>—</td><td><code>wrist_watch</code></td></tr>
+<tr><td><a href="#wrist_watch">Wristwatch</a></td><td>Extras</td><td class="num">230 ¢</td><td>Reach Supervisor (band 2)</td><td><code>wrist_watch</code></td></tr>
     </tbody></table></div>
     <div class="cards">
       <div class="card"><h3>Meshes</h3><p>Seven items are colours only (the T-shirts, the hoodie, the trousers). Five tops for each body,
@@ -442,20 +467,23 @@ ol.next { padding-left: 22px; }
       <div class="card"><h3>Never gameplay</h3><p>New items are bought, never drawn as rewards, so the reward stream and every
         balance measurement are unchanged. Nothing in the simulation reads what is worn, the body or the hair.</p></div>
       <div class="card"><h3>Saves</h3><p>Version 5 records the schools a career has worked at; an older career is seeded from its
-        past rooms, its accepted offers and notices, and its current school. Hair needs no migration.</p></div>
+        past rooms, its accepted offers and notices, and its current school. Version 6 adds the schools on the main ladder
+        below each of those (Maple, Riverside, Eastgate, City High, Kingsley), because older saves keep too little to prove
+        them. Branch schools (Brightpath, State University) count only with proof. Hair needs no migration.</p></div>
     </div>
   </section>
 
   <section id="balance">
-    <div class="section-head"><span class="eyebrow">Phase 4 — measured, waiting for a decision</span><h2>Prices &amp; balance</h2>
+    <div class="section-head"><span class="eyebrow">Phase 4 — measured; two changes approved and in the game</span><h2>Prices &amp; balance</h2>
       <p class="muted">Do the prices and unlocks fit what a player earns? 9 player styles × 48 seeds × 60 exams (and 120 for the
         careful styles). They are real careers: the shipped simulation with the M130 phone rooms, the Eastgate ★★½ ladder
-        (<code>7d8747d</code>) and promotions answered by <code>EventPolicy</code>. Coins are game coins (¢). Nothing in the game has
-        changed: the proposals below are for the user to decide.</p></div>
+        (<code>7d8747d</code>) and promotions answered by <code>EventPolicy</code>. Coins are game coins (¢). The user approved the first two
+        recommendations and they are in the game: ten mid-priced items wait for band 2, and the three band-3 items cost 750¢. The
+        figures below were measured on the phase 3 prices; where the approved prices change them, both are given.</p></div>
     <div class="cards">
       <div class="card"><span class="big">≈144¢</span><p>A careful player nets about this per exam in band 3 (from exam 13).
         In bands 1 and 2 it is 30–60¢, and for every other style 10–35¢.</p></div>
-      <div class="card"><span class="big">8,490¢</span><p>The whole coin wardrobe: 30 items plus 8 crests. A careful career buys it all
+      <div class="card"><span class="big">9,240¢</span><p>The whole coin wardrobe now (8,490¢ at the phase 3 prices): 30 items plus 8 crests. A careful career buys it all
         by exam 62 (59–66). Every other style ends exam 60 with 8–15 items.</p></div>
       <div class="card"><span class="big">exam 10–15</span><p>The first wardrobe item, after both tools (430¢), which every style
         has bought by exam 6–11.</p></div>
@@ -567,7 +595,8 @@ ol.next { padding-left: 22px; }
       gets ahead of the shop. <b>Keep it as it is.</b> Adding the new items would change every balance fingerprint and could hand
       out a crest before its school.</p>
 
-    <h3 id="proposal">Recommendation</h3>
+    <h3 id="proposal">Recommendation and decision</h3>
+    <p>Recommendations 1 and 2 are in the game; 3 and 4 needed no change.</p>
     <ol class="next">
       <li><b>Lock the ten 190–260¢ items to band 2 (Supervisor).</b> Prices unchanged. Band 1 then sells only items up to 160¢
         (16 items and 3 crests, 2,630¢ in all). The tools (180, 250) are the only big buys while you need them most. No
@@ -585,7 +614,7 @@ ol.next { padding-left: 22px; }
         touch in the UI would do, for example the Store noting your coins after a purchase against the next living-cost bill.
         Prices can't fix it.</li>
     </ol>
-    <div class="table-wrap"><table><thead><tr><th>Item</th><th>Price now → proposed</th><th>Lock now → proposed</th></tr></thead><tbody>
+    <div class="table-wrap"><table><thead><tr><th>Item</th><th>Price before → now</th><th>Lock before → now</th></tr></thead><tbody>
       <tr><td>Flat Cap</td><td class="num">200</td><td>none → band 2</td></tr>
       <tr><td>Sweater</td><td class="num">190</td><td>none → band 2</td></tr>
       <tr><td>Hoodie</td><td class="num">210</td><td>none → band 2</td></tr>
@@ -633,20 +662,17 @@ ol.next { padding-left: 22px; }
   <section id="limits">
     <div class="section-head"><h2>Known limits</h2></div>
     <ul class="next">
-      <li><b>Hair and body taps hitch on the phone.</b> On the Galaxy A15 each Man/Woman or Hair tap freezes the
-        screen for about 0.9 s: six taps, six single frames of 0.90–0.92 s. The rate of finished frames is about 50 a second
-        otherwise. A try-on tap costs one frame of about 0.5 s and a tab switch about 0.35 s. These are display
-        composition figures from the phone's own log (<code>hwcomposer</code>), not an in-game counter. The likely cause is
-        that the store redraws on every tap and a body or hair change builds a new figure.</li>
-      <li><b>The selected tab can be scrolled out of sight.</b> After you pick Shoes, Badges or Extras the tab row
-        snaps back to the start on the redraw, so the highlighted tab is off screen.</li>
-      <li><b>Older careers start with no school history.</b> Schools are recorded from this version on. A save from
-        before it counts only its current school, so a career that has passed through Maple still sees the Maple
-        Crest locked.</li>
+      <li><b>Buying still redraws the whole store.</b> A purchase moves the balance and with it what every card can afford,
+        so the page is rebuilt: about 50 ms in the editor; not yet timed on the phone. Every other Wardrobe tap updates in place.</li>
+      <li><b>A changed outfit is saved when you leave the store.</b> While the Wardrobe is open, a change of clothes, body or
+        hair waits and is written when the store closes or the app is put away, so the save's cost lands on that screen
+        change instead of on each tap.</li>
+      <li><b>Older careers' school history is inferred.</b> A career saved before the school record counts the main ladder below
+        its schools. A branch school it really worked at (Brightpath) stays locked unless the save shows it.</li>
       <li><b>Hair under hats.</b> The long and bob styles show below every brim, as hair does; the bob pokes out a little at one
         side of the cap. The bun is let down into a ponytail under any hat.</li>
       <li><b>One colour per item.</b> Each item has its own fixed colours; there are no colour variants to choose.</li>
-      <li><b>Prices and unlocks are the phase 3 values.</b> Phase 4 measured them against real careers. The proposed changes (<a href="#balance">Prices &amp; balance</a>) are waiting for a decision.</li>
+      <li><b>Prices and unlocks.</b> The two approved changes are in (<a href="#balance">Prices &amp; balance</a>); the rest are the phase 3 values.</li>
     </ul>
   </section>
 </div>
